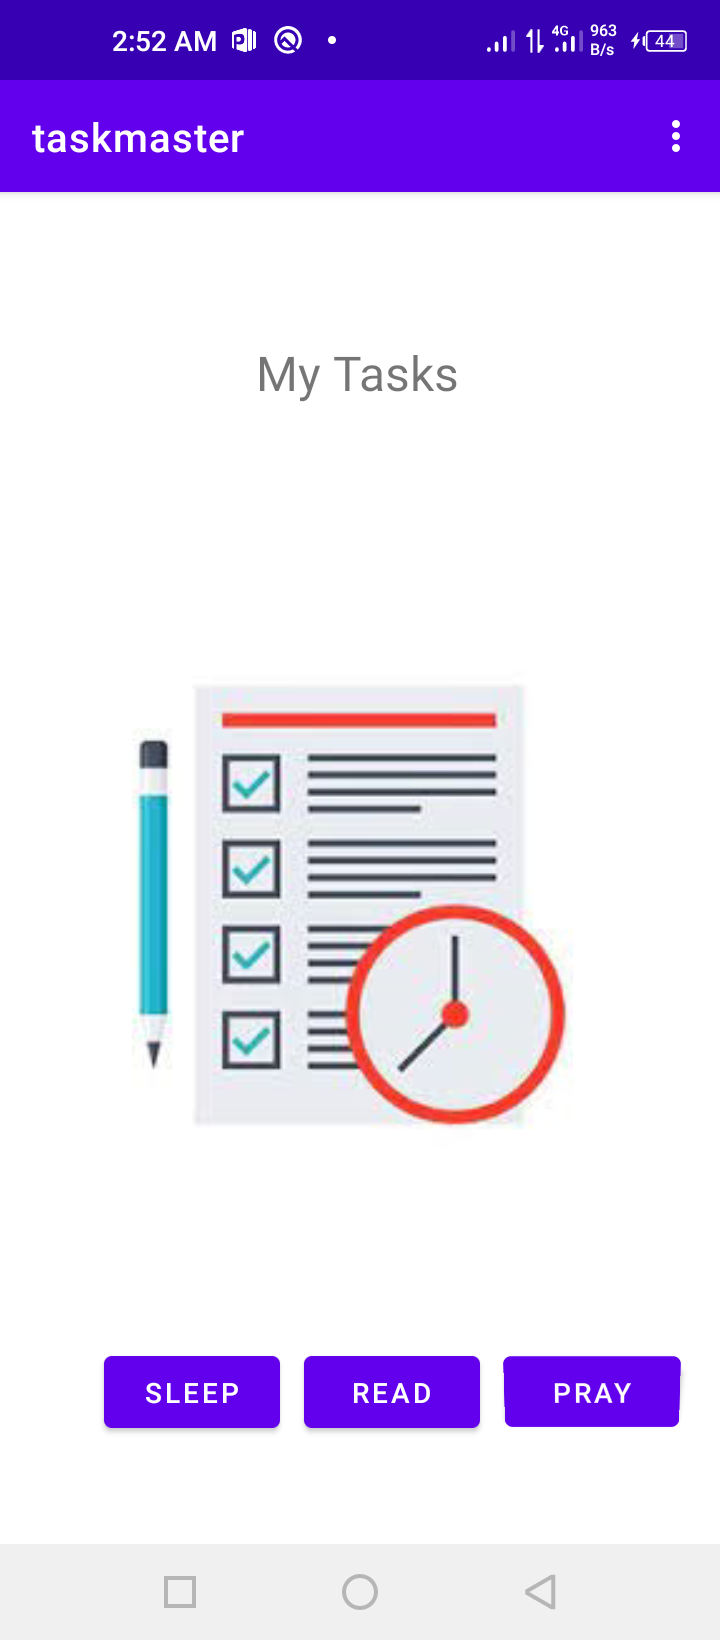
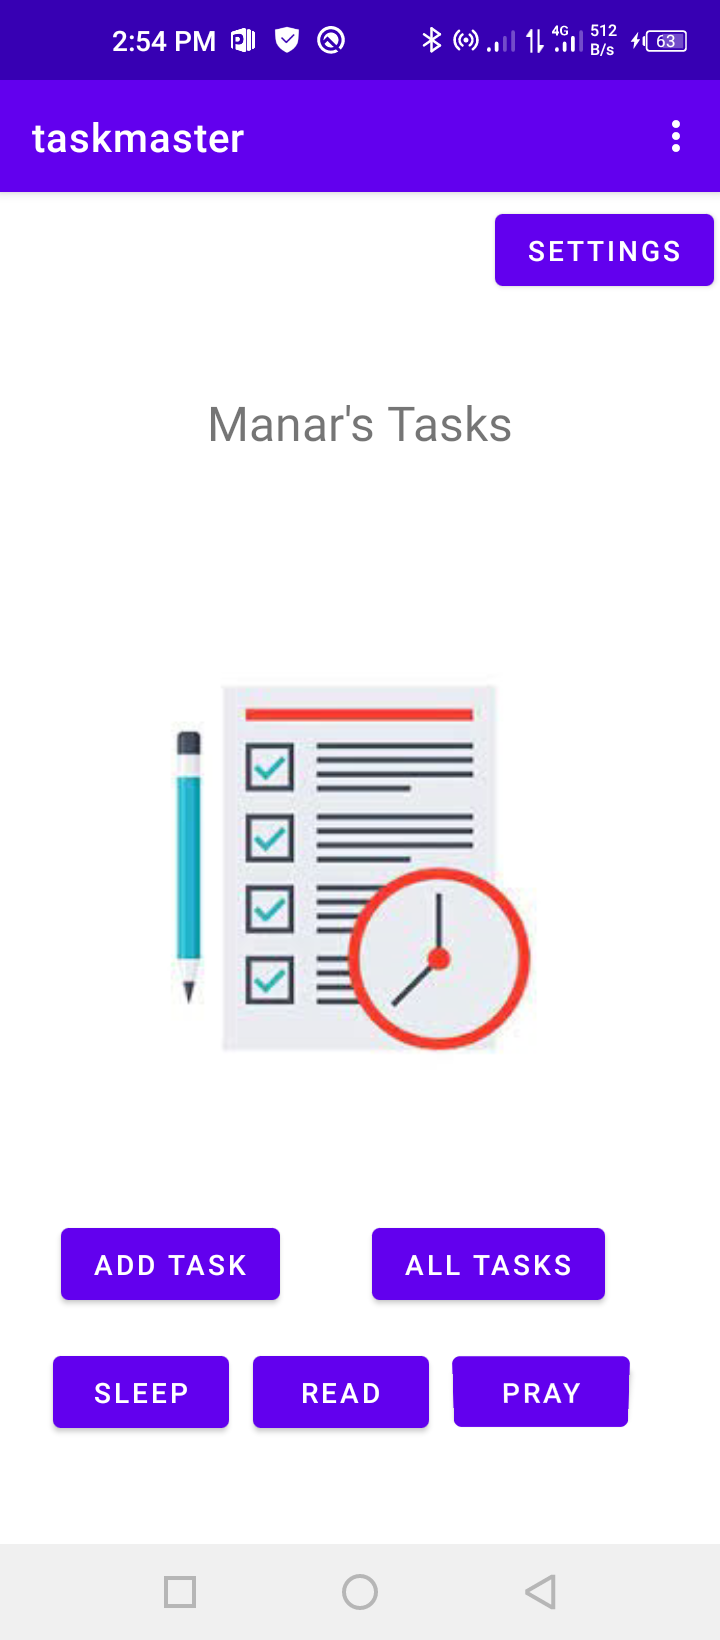
lab27 updated

diff --git a/app/src/main/java/com/example/taskmaster/MainActivity.java b/app/src/main/java/com/example/taskmaster/MainActivity.java
@@ -22,7 +22,25 @@ public class MainActivity extends AppCompatActivity {
     protected void onCreate(Bundle savedInstanceState) {
         super.onCreate(savedInstanceState);
         setContentView(R.layout.activity_main);
-        username = findViewById(R.id.username);
+        username = findViewById(R.id.editUserName);
+
+        Button settBtn = findViewById(R.id.button8);
+        settBtn.setOnClickListener(view -> {
+            navigateToSettings();
+        });
+
+        Button addTask = findViewById(R.id.button6);
+        addTask.setOnClickListener(view -> {
+            Intent addTaskActivity = new Intent(this , addTask.class);
+            startActivity(addTaskActivity);
+        });
+
+        Button allTask = findViewById(R.id.button7);
+        allTask.setOnClickListener(view -> {
+            Intent allTaskActivity = new Intent(this , allTasks.class);
+            startActivity(allTaskActivity);
+        });
+
         Button pray = findViewById(R.id.button4);
         pray.setOnClickListener(view -> {
             Intent prayActivity = new Intent(this , taskDetails.class);
@@ -82,7 +100,7 @@ public class MainActivity extends AppCompatActivity {
     @Override
     protected void onResume() {
         Log.i(TAG, "onResume: called - The App is VISIBLE");
-//                setUserName();
+                setUserName();
         super.onResume();
 
     }
@@ -110,7 +128,8 @@ public class MainActivity extends AppCompatActivity {
         SharedPreferences sharedPreferences = PreferenceManager.getDefaultSharedPreferences(this);
 
         // set text on text view User Name
-        username.setText(sharedPreferences.getString(settingsActivity.UserName, "no username"));
+        username.setText(sharedPreferences.getString(settingsActivity.UserName, " ") +"'s Tasks");
 
     }
+
 }

diff --git a/README.md b/README.md
@@ -1,27 +1,35 @@
 # taskmaster
 * the task master app has three pages:
-    * Main page (My Tasks contains: title "My Task", picture, 2 buttons(add task, all tasks))
-      ![main activity page](screenShots/main.png)
+* Main page (My Tasks contains: title "My Task", picture, 2 buttons(add task, all tasks))
+     
+     
+     
+![main activity page](screenShots/main.png)
+
+
       
-    * add Task page (contains title, and some data to write: task title and description, button to submit and  text: total tasks)
-      ![add task page](screenShots/add.jpg)
+* add Task page (contains title, and some data to write: task title and description, button to submit and  text: total tasks)
+     
+     
+
+     
+![add task page](screenShots/add.jpg)
+
+
       
-    * all tasks page (contains title, image and back button)
-      ![all tasks page](screenShots/all.jpg)
+* all tasks page (contains image and back button)
       
-------------------------------------------------------------
-
-# Lab 27 
-
-![home updated ](screenShots/home.png)
 
 
-![settings on home](screenShots/sett.png)
+![all tasks page](screenShots/all.png)
 
 
-![settings](screenShots/settings.png)
+-----------------------------------------------------
+# Lab 27
 
-![all tasks page](screenShots/all.jpg)
+* settings button added 
+* username appears on the main page
+
+![main activity page](screenShots/home.png)
 
 
-![task details](screenShots/read.png)
